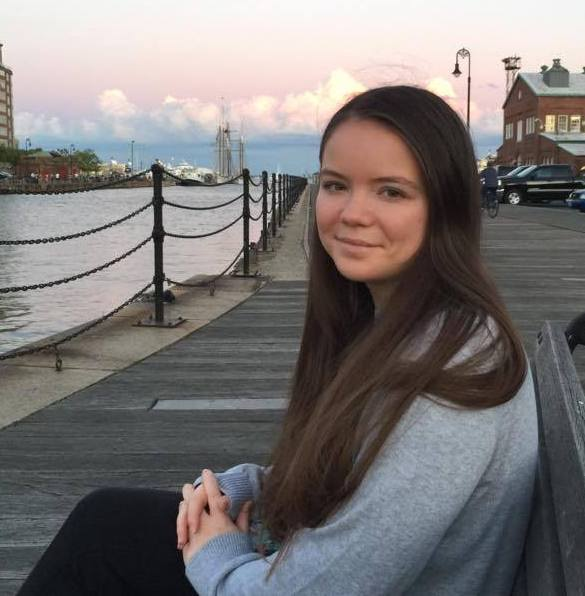
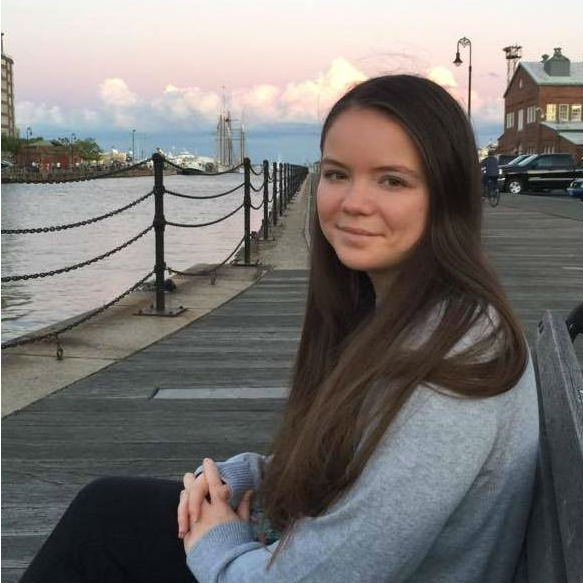
a

diff --git a/handouts/staff.html b/handouts/staff.html
@@ -207,8 +207,12 @@
 		<div class="row">
 	      <div class="col-sm-12">
 
+	      	<div class="alert alert-info">
+	      		<b>Heads up!</b> Office hours will start on Thursday, Sept 27th.
+	      	</div>
+
 	      	
-	      	<iframe src="https://calendar.google.com/calendar/embed?mode=WEEK&amp;height=600&amp;wkst=1&amp;bgcolor=%23FFFFFF&amp;src=vdlr9q2h4u9mqdn23kttcuec30%40group.calendar.google.com&amp;color=%23853104&amp;ctz=America%2FLos_Angeles" style="border-width:0" width="100%" height="600" frameborder="0" scrolling="no"></iframe>
+	      	<!--<iframe src="https://calendar.google.com/calendar/embed?mode=WEEK&amp;height=600&amp;wkst=1&amp;bgcolor=%23FFFFFF&amp;src=vdlr9q2h4u9mqdn23kttcuec30%40group.calendar.google.com&amp;color=%23853104&amp;ctz=America%2FLos_Angeles" style="border-width:0" width="100%" height="600" frameborder="0" scrolling="no"></iframe>
 	      	
 
 	      	<hr/>
@@ -224,7 +228,7 @@
 	      </p>
 	      	
 	      
-	      	<hr/>
+	      	<hr/>-->
 
 	      	<div class="row">
 		      <div class="col-sm-12">
@@ -249,7 +253,7 @@
 		        <div class="thumbnail">
 			      <img src="//web.stanford.edu/class/archive/cs/cs109/cs109.1192/img/people/juliaD.jpg" style="width:100%" alt="Generic placeholder thumbnail">
 			      <div class="caption">
-			        <b>TA: Julia Daniel</b><br>
+			        <b>Head TA: Julia Daniel</b><br>
 			        <span class="sidebaricon glyphicon glyphicon-envelope" aria-hidden="true"></span>jdaniel7@stanford.edu<br>
 					<span class="sidebaricon glyphicon glyphicon-blackboard" aria-hidden="true"></span>TBA<br>
 			        <span class="sidebaricon glyphicon glyphicon-blackboard" aria-hidden="true"></span>TBA
@@ -313,7 +317,7 @@
 
 		      <div class="col-sm-3 nopadding">
 		        <div class="thumbnail">
-			      <img class="thumbnailImg" style="width:100%" src="//web.stanford.edu/class/archive/cs/cs109/cs109.1192/img/people/anon.png" alt="Generic placeholder thumbnail">
+			      <img class="thumbnailImg" style="width:100%" src="//web.stanford.edu/class/archive/cs/cs109/cs109.1192/img/people/davidL.jpg" alt="Generic placeholder thumbnail">
 			      <div class="caption">
 			        <b>TA: David Liang</b><br>
 			        <span class="sidebaricon glyphicon glyphicon-envelope" aria-hidden="true"></span>dwliang@stanford.edu<br>
@@ -325,7 +329,7 @@
 
 		      <div class="col-sm-3 nopadding">
 		        <div class="thumbnail">
-			      <img src="//web.stanford.edu/class/archive/cs/cs109/cs109.1192/img/people/anon.png" style="width:100%" alt="Generic placeholder thumbnail">
+			      <img src="//web.stanford.edu/class/archive/cs/cs109/cs109.1192/img/people/nathanD.jpg" style="width:100%" alt="Generic placeholder thumbnail">
 			      <div class="caption">
 			        <b>TA: Nathan Dass</b><br>
 			        <span class="sidebaricon glyphicon glyphicon-envelope" aria-hidden="true"></span>ndass@stanford.edu<br>
@@ -346,7 +350,7 @@
 
 		      <div class="col-sm-3 nopadding">
 		        <div class="thumbnail">
-			      <img src="//web.stanford.edu/class/archive/cs/cs109/cs109.1192/img/people/anon.png" style="width:100%" alt="Generic placeholder thumbnail">
+			      <img src="//web.stanford.edu/class/archive/cs/cs109/cs109.1192/img/people/nickB.jpg" style="width:100%" alt="Generic placeholder thumbnail">
 			      <div class="caption">
 			        <b>TA: Nicholas Bowman</b><br>
 			        <span class="sidebaricon glyphicon glyphicon-envelope" aria-hidden="true"></span>nbowman@stanford.edu<br>
@@ -374,7 +378,7 @@
 
 		      <div class="col-sm-3 nopadding">
 		        <div class="thumbnail">
-			      <img src="//web.stanford.edu/class/archive/cs/cs109/cs109.1192/img/people/anon.png" style="width:100%" alt="Generic placeholder thumbnail">
+			      <img src="//web.stanford.edu/class/archive/cs/cs109/cs109.1192/img/people/oishiB.jpg" style="width:100%" alt="Generic placeholder thumbnail">
 			      <div class="caption">
 			        <b>TA: Oishi Banerjee</b><br>
 			        <span class="sidebaricon glyphicon glyphicon-envelope" aria-hidden="true"></span>oishib@stanford.edu<br>
@@ -388,7 +392,7 @@
 
 		      <div class="col-sm-3 nopadding">
 		        <div class="thumbnail">
-			      <img src="//web.stanford.edu/class/archive/cs/cs109/cs109.1192/img/people/anon.png" style="width:100%" alt="Generic placeholder thumbnail">
+			      <img src="//web.stanford.edu/class/archive/cs/cs109/cs109.1192/img/people/samS.jpeg" style="width:100%" alt="Generic placeholder thumbnail">
 			      <div class="caption">
 			        <b>TA: Sam Schwager</b><br>
 			        <span class="sidebaricon glyphicon glyphicon-envelope" aria-hidden="true"></span>sams95@stanford.edu<br>

diff --git a/templates/handouts/staff.html b/templates/handouts/staff.html
@@ -28,8 +28,12 @@
 		<div class="row">
 	      <div class="col-sm-12">
 
+	      	<div class="alert alert-info">
+	      		<b>Heads up!</b> Office hours will start on Thursday, Sept 27th.
+	      	</div>
+
 	      	
-	      	<iframe src="https://calendar.google.com/calendar/embed?mode=WEEK&amp;height=600&amp;wkst=1&amp;bgcolor=%23FFFFFF&amp;src=vdlr9q2h4u9mqdn23kttcuec30%40group.calendar.google.com&amp;color=%23853104&amp;ctz=America%2FLos_Angeles" style="border-width:0" width="100%" height="600" frameborder="0" scrolling="no"></iframe>
+	      	<!--<iframe src="https://calendar.google.com/calendar/embed?mode=WEEK&amp;height=600&amp;wkst=1&amp;bgcolor=%23FFFFFF&amp;src=vdlr9q2h4u9mqdn23kttcuec30%40group.calendar.google.com&amp;color=%23853104&amp;ctz=America%2FLos_Angeles" style="border-width:0" width="100%" height="600" frameborder="0" scrolling="no"></iframe>
 	      	
 
 	      	<hr/>
@@ -45,7 +49,7 @@
 	      </p>
 	      	
 	      
-	      	<hr/>
+	      	<hr/>-->
 
 	      	<div class="row">
 		      <div class="col-sm-12">
@@ -70,7 +74,7 @@
 		        <div class="thumbnail">
 			      <img src="{{pathToRoot}}img/people/juliaD.jpg" style="width:100%" alt="Generic placeholder thumbnail">
 			      <div class="caption">
-			        <b>TA: Julia Daniel</b><br>
+			        <b>Head TA: Julia Daniel</b><br>
 			        <span class="sidebaricon glyphicon glyphicon-envelope" aria-hidden="true"></span>jdaniel7@stanford.edu<br>
 					<span class="sidebaricon glyphicon glyphicon-blackboard" aria-hidden="true"></span>TBA<br>
 			        <span class="sidebaricon glyphicon glyphicon-blackboard" aria-hidden="true"></span>TBA
@@ -134,7 +138,7 @@
 
 		      <div class="col-sm-3 nopadding">
 		        <div class="thumbnail">
-			      <img class="thumbnailImg" style="width:100%" src="{{pathToRoot}}img/people/anon.png" alt="Generic placeholder thumbnail">
+			      <img class="thumbnailImg" style="width:100%" src="{{pathToRoot}}img/people/davidL.jpg" alt="Generic placeholder thumbnail">
 			      <div class="caption">
 			        <b>TA: David Liang</b><br>
 			        <span class="sidebaricon glyphicon glyphicon-envelope" aria-hidden="true"></span>dwliang@stanford.edu<br>
@@ -146,7 +150,7 @@
 
 		      <div class="col-sm-3 nopadding">
 		        <div class="thumbnail">
-			      <img src="{{pathToRoot}}img/people/anon.png" style="width:100%" alt="Generic placeholder thumbnail">
+			      <img src="{{pathToRoot}}img/people/nathanD.jpg" style="width:100%" alt="Generic placeholder thumbnail">
 			      <div class="caption">
 			        <b>TA: Nathan Dass</b><br>
 			        <span class="sidebaricon glyphicon glyphicon-envelope" aria-hidden="true"></span>ndass@stanford.edu<br>
@@ -167,7 +171,7 @@
 
 		      <div class="col-sm-3 nopadding">
 		        <div class="thumbnail">
-			      <img src="{{pathToRoot}}img/people/anon.png" style="width:100%" alt="Generic placeholder thumbnail">
+			      <img src="{{pathToRoot}}img/people/nickB.jpg" style="width:100%" alt="Generic placeholder thumbnail">
 			      <div class="caption">
 			        <b>TA: Nicholas Bowman</b><br>
 			        <span class="sidebaricon glyphicon glyphicon-envelope" aria-hidden="true"></span>nbowman@stanford.edu<br>
@@ -195,7 +199,7 @@
 
 		      <div class="col-sm-3 nopadding">
 		        <div class="thumbnail">
-			      <img src="{{pathToRoot}}img/people/anon.png" style="width:100%" alt="Generic placeholder thumbnail">
+			      <img src="{{pathToRoot}}img/people/oishiB.jpg" style="width:100%" alt="Generic placeholder thumbnail">
 			      <div class="caption">
 			        <b>TA: Oishi Banerjee</b><br>
 			        <span class="sidebaricon glyphicon glyphicon-envelope" aria-hidden="true"></span>oishib@stanford.edu<br>
@@ -209,7 +213,7 @@
 
 		      <div class="col-sm-3 nopadding">
 		        <div class="thumbnail">
-			      <img src="{{pathToRoot}}img/people/anon.png" style="width:100%" alt="Generic placeholder thumbnail">
+			      <img src="{{pathToRoot}}img/people/samS.jpeg" style="width:100%" alt="Generic placeholder thumbnail">
 			      <div class="caption">
 			        <b>TA: Sam Schwager</b><br>
 			        <span class="sidebaricon glyphicon glyphicon-envelope" aria-hidden="true"></span>sams95@stanford.edu<br>

diff --git a/index.html b/index.html
@@ -650,27 +650,6 @@
 		<p></p>
 	</div>-->
 
-
-
-<div class="well">
-    <div class="newsfeedHeader">
-        <div class="newsfeedTitle">What is CS109?</div>
-        <div class="moment">2018092300</div>
-    </div>
-
-    <p>
-        We put together some handouts to help you understand where we are going to go in CS109 and how we plan to get there. See the <span class="glyphicon glyphicon-apple" aria-hidden="true"></span> <a href="//web.stanford.edu/class/archive/cs/cs109/cs109.1192/pdfs/Administrivia.pdf">Administrivia</a> handout for details on logistics.
-    </p>
-
-    <p>
-     The <span class="glyphicon glyphicon-th-large" aria-hidden="true" title="pdf"></span> <a href="//web.stanford.edu/class/archive/cs/cs109/cs109.1192/schedule.html">Course Schedule</a> page shows you the topics that we are going to cover in CS109 and the corresponding readings. We will also post materials from lecture on the schedule page.
-    
-    </p>
-
-</div>
-
-
-
 <div class="well">
     <div class="newsfeedHeader">
         <div class="newsfeedTitle">Welcome</div>
@@ -686,7 +665,38 @@
     </div>
     </p>
 
-</div>					
+</div>
+
+<div class="well">
+    <div class="newsfeedHeader">
+        <div class="newsfeedTitle">What is CS109?</div>
+        <div class="moment">2018092300</div>
+    </div>
+
+    <p>
+        We put together some handouts to help you understand where we are going to go in CS109 and how we plan to get there. 
+    </p>
+    <p>
+        The <span class="glyphicon glyphicon-apple" aria-hidden="true"></span> <a href="//web.stanford.edu/class/archive/cs/cs109/cs109.1192/pdfs/Administrivia.pdf">Administrivia</a> handout has details on course logistics. Read this to get a sense for what CS109 is going to entail.
+    </p>
+
+    <p>
+     The <span class="glyphicon glyphicon-th-large" aria-hidden="true" title="pdf"></span> <a href="//web.stanford.edu/class/archive/cs/cs109/cs109.1192/schedule.html">Course Schedule</a> page shows you the topics that we are going to cover in CS109 and the corresponding readings. We will also post materials from lecture on the schedule page.
+    
+    </p>
+
+    <p>
+
+        The <span class="glyphicon glyphicon-user" aria-hidden="true" title="pdf"></span> <a href="//web.stanford.edu/class/archive/cs/cs109/cs109.1192/handouts/staff.html">Staff / Office Hour</a> page has contact information for TAs and the office hour calendar. Office hours will start this Thursday. <br/>
+
+        <!--<img style="width:100%" src="//web.stanford.edu/class/archive/cs/cs109/cs109.1192/img/people/staff.png"></img>-->
+    </p>
+
+</div>
+
+
+
+					
 			</div>
 		</div>
 

diff --git a/templates/parts/announcements.html b/templates/parts/announcements.html
@@ -265,27 +265,6 @@
 		<p></p>
 	</div>-->
 
-
-
-<div class="well">
-    <div class="newsfeedHeader">
-        <div class="newsfeedTitle">What is CS109?</div>
-        <div class="moment">2018092300</div>
-    </div>
-
-    <p>
-        We put together some handouts to help you understand where we are going to go in CS109 and how we plan to get there. See the <span class="glyphicon glyphicon-apple" aria-hidden="true"></span> <a href="{{pathToRoot}}pdfs/Administrivia.pdf">Administrivia</a> handout for details on logistics.
-    </p>
-
-    <p>
-     The <span class="glyphicon glyphicon-th-large" aria-hidden="true" title="pdf"></span> <a href="{{pathToRoot}}schedule.html">Course Schedule</a> page shows you the topics that we are going to cover in CS109 and the corresponding readings. We will also post materials from lecture on the schedule page.
-    
-    </p>
-
-</div>
-
-
-
 <div class="well">
     <div class="newsfeedHeader">
         <div class="newsfeedTitle">Welcome</div>
@@ -302,3 +281,33 @@
     </p>
 
 </div>
+
+<div class="well">
+    <div class="newsfeedHeader">
+        <div class="newsfeedTitle">What is CS109?</div>
+        <div class="moment">2018092300</div>
+    </div>
+
+    <p>
+        We put together some handouts to help you understand where we are going to go in CS109 and how we plan to get there. 
+    </p>
+    <p>
+        The <span class="glyphicon glyphicon-apple" aria-hidden="true"></span> <a href="{{pathToRoot}}pdfs/Administrivia.pdf">Administrivia</a> handout has details on course logistics. Read this to get a sense for what CS109 is going to entail.
+    </p>
+
+    <p>
+     The <span class="glyphicon glyphicon-th-large" aria-hidden="true" title="pdf"></span> <a href="{{pathToRoot}}schedule.html">Course Schedule</a> page shows you the topics that we are going to cover in CS109 and the corresponding readings. We will also post materials from lecture on the schedule page.
+    
+    </p>
+
+    <p>
+
+        The <span class="glyphicon glyphicon-user" aria-hidden="true" title="pdf"></span> <a href="{{pathToRoot}}handouts/staff.html">Staff / Office Hour</a> page has contact information for TAs and the office hour calendar. Office hours will start this Thursday. <br/>
+
+        <!--<img style="width:100%" src="{{pathToRoot}}img/people/staff.png"></img>-->
+    </p>
+
+</div>
+
+
+
